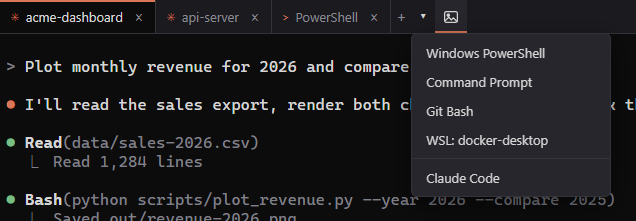
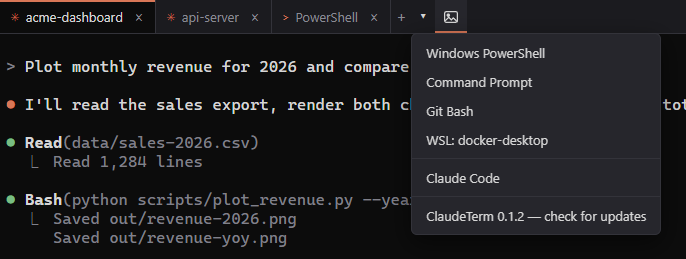
feat: English UI
Every UI string is English now, matching the README and the repository:
menus, banners, toasts, notices, status bar tooltips and image captions.
Numbers in tooltips use "," grouping, the restore banner date uses en-GB,
and subagent task descriptions are quoted with "…" instead of «…».
README screenshots regenerated.

Claude-Session: https://claude.ai/code/session_01H7pKcv8GdDHMwp5yt5Lqan

Changed region(s): [[0.0, 0.0, 1.0, 1.0], [0.6871, 0.1357, 0.7469, 0.1629], [0.0299, 0.9774, 0.0597, 1.0]]

diff --git a/src/renderer/status-bar.ts b/src/renderer/status-bar.ts
@@ -23,13 +23,13 @@ export function modelFamily(id: string): string {
   return /^claude-([a-z]+)-/.exec(id)?.[1] ?? id
 }
 
-const groupDigits = (n: number): string => String(Math.round(n)).replace(/\B(?=(\d{3})+(?!\d))/g, ' ')
+const groupDigits = (n: number): string => String(Math.round(n)).replace(/\B(?=(\d{3})+(?!\d))/g, ',')
 const pad2 = (n: number): string => String(n).padStart(2, '0')
 const agentKind = (a: AgentStatus): string => (a.model === null ? '…' : a.effort ? `${modelFamily(a.model)}·${a.effort}` : modelFamily(a.model))
 
 function minutes(ms: number): string {
   const m = Math.floor(ms / 60_000)
-  return m < 1 ? '<1 мин' : `${m} мин`
+  return m < 1 ? '<1 min' : `${m} min`
 }
 
 function agentGroups(agents: AgentStatus[]): string {
@@ -42,7 +42,7 @@ function agentGroups(agents: AgentStatus[]): string {
 }
 
 const agentLine = (a: AgentStatus, now: number): string =>
-  [a.type, agentKind(a), minutes(now - a.startedAt), ...(a.description ? [`«${a.description}»`] : [])].join(' · ')
+  [a.type, agentKind(a), minutes(now - a.startedAt), ...(a.description ? [`"${a.description}"`] : [])].join(' · ')
 
 export function statusSegments(u: StatusUpdate, now: number): Segment[] {
   const main = u.main
@@ -55,14 +55,14 @@ export function statusSegments(u: StatusUpdate, now: number): Segment[] {
     segments.push({
       key: 'context',
       text: `ctx ${Math.round(c.usedPct)}% · ${formatTokens(c.usedTokens)}/${formatTokens(c.size)}`,
-      title: `${groupDigits(c.usedTokens)} из ${groupDigits(c.size)} токенов`,
+      title: `${groupDigits(c.usedTokens)} of ${groupDigits(c.size)} tokens`,
       level: levelFor(c.usedPct)
     })
   }
   if (main.fiveHour) {
     const f = main.fiveHour
     const reset = new Date(f.resetsAt * 1000)
-    segments.push({ key: 'limit', text: `5h ${Math.round(f.usedPct)}%`, title: `сброс в ${pad2(reset.getHours())}:${pad2(reset.getMinutes())}`, level: levelFor(f.usedPct) })
+    segments.push({ key: 'limit', text: `5h ${Math.round(f.usedPct)}%`, title: `resets at ${pad2(reset.getHours())}:${pad2(reset.getMinutes())}`, level: levelFor(f.usedPct) })
   }
   if (u.agents.length > 0) {
     segments.push({ key: 'agents', text: `⚙ ${u.agents.length}: ${agentGroups(u.agents)}`, title: u.agents.map((a) => agentLine(a, now)).join('\n'), level: 'normal' })

diff --git a/tests/unit/updater.test.ts b/tests/unit/updater.test.ts
@@ -66,7 +66,7 @@ describe('Updater', () => {
     await u.check(true)
     b.result = '0.1.4'
     await u.check(true)
-    expect(out).toEqual(['toast:Установлена последняя версия (0.1.3)', 'toast:Загружается ClaudeTerm 0.1.4…'])
+    expect(out).toEqual(['toast:You have the latest version (0.1.3)', 'toast:Downloading ClaudeTerm 0.1.4…'])
   })
 
   it('background errors are only logged; manual errors are shown', async () => {
@@ -74,7 +74,7 @@ describe('Updater', () => {
     b.fail = 'net::ERR_INTERNET_DISCONNECTED'
     await u.check(false)
     await u.check(true)
-    expect(out).toEqual(['log:update check failed: net::ERR_INTERNET_DISCONNECTED', 'toast:Не удалось проверить обновления: net::ERR_INTERNET_DISCONNECTED'])
+    expect(out).toEqual(['log:update check failed: net::ERR_INTERNET_DISCONNECTED', 'toast:Couldn\'t check for updates: net::ERR_INTERNET_DISCONNECTED'])
   })
 
   it('a check while another is running is ignored', async () => {
@@ -95,7 +95,7 @@ describe('Updater', () => {
     expect(u.current).toEqual({ status: 'ready', version: '0.1.4' })
     await u.check(true)
     expect(b.checks).toBe(0)
-    expect(out).toEqual(['toast:ClaudeTerm 0.1.4 уже загружена — нажмите «Перезапустить»'])
+    expect(out).toEqual(['toast:ClaudeTerm 0.1.4 is downloaded — click Restart to install it'])
   })
 
   it('install saves the session before quitting into the installer, and only when ready', () => {
@@ -120,7 +120,7 @@ describe('Updater', () => {
     await u.check(false)
     await u.check(true)
     expect(timers).toEqual([])
-    expect(out).toEqual(['toast:Обновления работают только в установленной версии'])
+    expect(out).toEqual(['toast:Updates only work in the installed app'])
   })
 
   it('stop cancels the schedule', () => {

diff --git a/src/renderer/image-panel.ts b/src/renderer/image-panel.ts
@@ -10,7 +10,7 @@ export interface ImagePanelCallbacks {
   markSeen(tabId: string): void
 }
 
-const SOURCE_LABEL: Record<ImageSource, string> = { created: 'created', shown: 'show_image', read: 'read', tool: 'tool', pasted: 'вы' }
+const SOURCE_LABEL: Record<ImageSource, string> = { created: 'created', shown: 'show_image', read: 'read', tool: 'tool', pasted: 'you' }
 
 export class ImagePanel {
   private collapsed = true
@@ -113,13 +113,13 @@ export class ImagePanel {
     el.addEventListener('contextmenu', (e) => {
       e.preventDefault()
       showMenu({ x: e.clientX, y: e.clientY }, [
-        { label: 'Открыть в просмотрщике', action: () => this.cb.action(card.id, 'open') },
-        { label: 'Показать в Explorer', action: () => this.cb.action(card.id, 'reveal') },
-        { label: 'Копировать изображение', action: () => this.cb.action(card.id, 'copy-image') },
-        { label: 'Копировать путь', action: () => this.cb.action(card.id, 'copy-path') },
-        { label: 'Вставить путь в терминал', action: () => this.cb.insertPath(card.path) },
+        { label: 'Open in viewer', action: () => this.cb.action(card.id, 'open') },
+        { label: 'Show in Explorer', action: () => this.cb.action(card.id, 'reveal') },
+        { label: 'Copy image', action: () => this.cb.action(card.id, 'copy-image') },
+        { label: 'Copy path', action: () => this.cb.action(card.id, 'copy-path') },
+        { label: 'Insert path into terminal', action: () => this.cb.insertPath(card.path) },
         { label: '', separator: true },
-        { label: 'Убрать из ленты', action: () => this.cb.action(card.id, 'remove') }
+        { label: 'Remove from panel', action: () => this.cb.action(card.id, 'remove') }
       ])
     })
     return el

diff --git a/src/renderer/restore-banner.ts b/src/renderer/restore-banner.ts
@@ -1,16 +1,12 @@
 import type { RestoreInfo } from '../shared/ipc'
 
 export function plural(n: number): string {
-  const m10 = n % 10
-  const m100 = n % 100
-  if (m10 === 1 && m100 !== 11) return 'вкладка'
-  if (m10 >= 2 && m10 <= 4 && (m100 < 12 || m100 > 14)) return 'вкладки'
-  return 'вкладок'
+  return n === 1 ? 'tab' : 'tabs'
 }
 
 export function formatTime(iso: string): string {
   const d = new Date(iso)
-  return Number.isNaN(d.getTime()) ? iso : d.toLocaleString('ru-RU', { day: '2-digit', month: '2-digit', hour: '2-digit', minute: '2-digit' })
+  return Number.isNaN(d.getTime()) ? iso : d.toLocaleString('en-GB', { day: '2-digit', month: '2-digit', hour: '2-digit', minute: '2-digit' })
 }
 
 export class RestoreBanner {
@@ -25,15 +21,15 @@ export class RestoreBanner {
       return
     }
     const text = document.createElement('span')
-    text.textContent = `Предыдущая сессия: ${info.tabs} ${plural(info.tabs)} (${info.claudeTabs} Claude) · ${formatTime(info.savedAt)}`
+    text.textContent = `Previous session: ${info.tabs} ${plural(info.tabs)} (${info.claudeTabs} Claude) · ${formatTime(info.savedAt)}`
     const go = document.createElement('button')
     go.className = 'banner-restore'
-    go.textContent = 'Продолжить'
+    go.textContent = 'Restore'
     go.addEventListener('click', () => this.onRestore())
     const close = document.createElement('button')
     close.className = 'banner-close'
     close.textContent = '×'
-    close.title = 'Скрыть'
+    close.title = 'Hide'
     close.addEventListener('click', () => {
       this.dismissed = true
       this.update(null)

diff --git a/tests/e2e/update.spec.ts b/tests/e2e/update.spec.ts
@@ -40,7 +40,7 @@ test('a downloaded update shows a banner whose button asks to restart into it', 
   await app.evaluate(({ BrowserWindow }, s) => BrowserWindow.getAllWindows()[0].webContents.send('ev:update', s), ready('9.9.9'))
   const banner = page.locator('#update-banner')
   await expect(banner).toBeVisible()
-  await expect(banner).toContainText('Доступна новая версия ClaudeTerm 9.9.9.')
+  await expect(banner).toContainText('ClaudeTerm 9.9.9 is ready to install.')
   await banner.locator('.banner-restart').click()
   await expect.poll(() => app.evaluate(() => (globalThis as Record<string, unknown>).__installAsked === true)).toBe(true)
   await app.close()
@@ -65,9 +65,9 @@ test('the menu shows the version, and a check in a build that cannot update says
   const { app, page } = await launchApp()
   const version = await app.evaluate(({ app: a }) => a.getVersion())
   await page.locator('.tab-menu').click()
-  const item = page.locator('.menu-item', { hasText: `ClaudeTerm ${version} — проверить обновления` })
+  const item = page.locator('.menu-item', { hasText: `ClaudeTerm ${version} — check for updates` })
   await expect(item).toBeVisible()
   await item.click()
-  await expect(page.locator('.toast', { hasText: 'Обновления работают только в установленной версии' })).toBeVisible()
+  await expect(page.locator('.toast', { hasText: 'Updates only work in the installed app' })).toBeVisible()
   await app.close()
 })

diff --git a/src/main/updater.ts b/src/main/updater.ts
@@ -51,22 +51,22 @@ export class Updater {
   async check(manual: boolean): Promise<void> {
     const b = this.d.backend
     if (!b) {
-      if (manual) this.d.notify('Обновления работают только в установленной версии')
+      if (manual) this.d.notify('Updates only work in the installed app')
       return
     }
     if (this.state.status === 'ready') {
-      if (manual) this.d.notify(`ClaudeTerm ${this.state.version} уже загружена — нажмите «Перезапустить»`)
+      if (manual) this.d.notify(`ClaudeTerm ${this.state.version} is downloaded — click Restart to install it`)
       return
     }
     if (this.checking) return
     this.checking = true
     try {
       const version = await b.check()
-      if (manual) this.d.notify(version ? `Загружается ClaudeTerm ${version}…` : `Установлена последняя версия (${this.d.currentVersion})`)
+      if (manual) this.d.notify(version ? `Downloading ClaudeTerm ${version}…` : `You have the latest version (${this.d.currentVersion})`)
       else if (version) this.d.log(`update ${version} found, downloading`)
     } catch (e) {
       const m = (e as Error).message
-      if (manual) this.d.notify(`Не удалось проверить обновления: ${m}`)
+      if (manual) this.d.notify(`Couldn't check for updates: ${m}`)
       else this.d.log(`update check failed: ${m}`)
     } finally {
       this.checking = false

diff --git a/tests/unit/status-bar.test.ts b/tests/unit/status-bar.test.ts
@@ -15,9 +15,9 @@ describe('statusSegments', () => {
     const agents = [agent({ type: 'code-reviewer', description: 'Review font fix' })]
     expect(statusSegments({ tabId: 't', main, agents }, 3 * 60_000 + 5_000)).toEqual([
       { key: 'model', text: 'Opus 5.5 · xhigh', title: 'claude-opus-5-5', level: 'normal' },
-      { key: 'context', text: 'ctx 41% · 82k/200k', title: '82 314 из 200 000 токенов', level: 'normal' },
-      { key: 'limit', text: '5h 24%', title: 'сброс в 21:40', level: 'normal' },
-      { key: 'agents', text: '⚙ 1: opus·high', title: 'code-reviewer · opus·high · 3 мин · «Review font fix»', level: 'normal' }
+      { key: 'context', text: 'ctx 41% · 82k/200k', title: '82,314 of 200,000 tokens', level: 'normal' },
+      { key: 'limit', text: '5h 24%', title: 'resets at 21:40', level: 'normal' },
+      { key: 'agents', text: '⚙ 1: opus·high', title: 'code-reviewer · opus·high · 3 min · "Review font fix"', level: 'normal' }
     ])
   })
 
@@ -47,7 +47,7 @@ describe('statusSegments', () => {
   })
 
   it('agent tooltip: under a minute, no description', () => {
-    expect(statusSegments({ tabId: 't', main, agents: [agent({ startedAt: 1000 })] }, 30_000).at(-1)?.title).toBe('Explore · opus·high · <1 мин')
+    expect(statusSegments({ tabId: 't', main, agents: [agent({ startedAt: 1000 })] }, 30_000).at(-1)?.title).toBe('Explore · opus·high · <1 min')
   })
 })
 

diff --git a/tests/unit/transcript-images.test.ts b/tests/unit/transcript-images.test.ts
@@ -23,15 +23,15 @@ describe('TranscriptParser', () => {
 
   it('image pasted by the user → kind pasted', () => {
     const out = new TranscriptParser({ subagent: false }).parseLine(pastedLine())
-    expect(out).toEqual([{ kind: 'pasted', filePath: null, data: PNG_B64, mediaType: 'image/png', caption: 'вставлено вами', timestamp: Date.parse('2026-10-05T10:00:02.000Z') }])
+    expect(out).toEqual([{ kind: 'pasted', filePath: null, data: PNG_B64, mediaType: 'image/png', caption: 'pasted by you', timestamp: Date.parse('2026-10-05T10:00:02.000Z') }])
   })
 
   it('subagent transcripts get a prefix', () => {
     const p = new TranscriptParser({ subagent: true })
     p.parseLine(toolUseLine('toolu_r1', 'Read', { file_path: SHOT }))
     p.parseLine(toolUseLine('toolu_s1', 'mcp__claude-in-chrome__computer', { action: 'screenshot' }))
-    expect(p.parseLine(toolResultLine('toolu_r1'))[0].caption).toBe('субагент · Read')
-    expect(p.parseLine(toolResultLine('toolu_s1'))[0].caption).toBe('субагент · claude-in-chrome · computer (screenshot)')
+    expect(p.parseLine(toolResultLine('toolu_r1'))[0].caption).toBe('subagent · Read')
+    expect(p.parseLine(toolResultLine('toolu_s1'))[0].caption).toBe('subagent · claude-in-chrome · computer (screenshot)')
   })
 
   it('tool_result without a known tool_use → kind tool without caption', () => {

diff --git a/src/main/transcript-images.ts b/src/main/transcript-images.ts
@@ -83,14 +83,14 @@ export class TranscriptParser {
   private describe(toolUseId: string | null, data: string, mediaType: string, timestamp: number | null): ExtractedImage {
     const sub = this.opts.subagent
     if (toolUseId === null) {
-      return { kind: 'pasted', filePath: null, data, mediaType, caption: sub ? 'субагент · входная картинка' : 'вставлено вами', timestamp }
+      return { kind: 'pasted', filePath: null, data, mediaType, caption: sub ? 'subagent · input image' : 'pasted by you', timestamp }
     }
     const tool = this.tools.get(toolUseId)
     if (tool?.name === 'Read' && typeof tool.input.file_path === 'string') {
-      return { kind: 'read', filePath: tool.input.file_path, data, mediaType, caption: sub ? 'субагент · Read' : null, timestamp }
+      return { kind: 'read', filePath: tool.input.file_path, data, mediaType, caption: sub ? 'subagent · Read' : null, timestamp }
     }
     const label = tool ? toolLabel(tool.name, tool.input) : null
-    const caption = label ? (sub ? `субагент · ${label}` : label) : sub ? 'субагент' : null
+    const caption = label ? (sub ? `subagent · ${label}` : label) : sub ? 'subagent' : null
     return { kind: 'tool', filePath: null, data, mediaType, caption, timestamp }
   }
 }

diff --git a/src/renderer/main.ts b/src/renderer/main.ts
@@ -214,9 +214,9 @@ function newTabMenu(anchor: HTMLElement): void {
       ...names.map((name) => ({ label: name, action: () => void ct.openTab({ kind: 'shell', cwd: appInfo.homeDir, profile: name }) })),
       { label: '', separator: true },
       { label: 'Claude Code', action: () => void ct.openTab({ kind: 'claude', cwd: active?.info.cwd ?? appInfo.homeDir }) },
-      ...(restoreInfo ? [{ label: `Продолжить предыдущие сессии (${restoreInfo.tabs})`, action: () => ct.runRestore() }] : []),
+      ...(restoreInfo ? [{ label: `Restore previous session (${restoreInfo.tabs})`, action: () => ct.runRestore() }] : []),
       { label: '', separator: true },
-      { label: `ClaudeTerm ${appInfo.version} — проверить обновления`, action: () => ct.checkForUpdates() }
+      { label: `ClaudeTerm ${appInfo.version} — check for updates`, action: () => ct.checkForUpdates() }
     ]
     const r = anchor.getBoundingClientRect()
     showMenu({ x: r.left, y: r.bottom }, items)

diff --git a/tests/integration/transcript-feed.int.test.ts b/tests/integration/transcript-feed.int.test.ts
@@ -126,7 +126,7 @@ describe('TranscriptFeed', () => {
     await feed.poll()
     expect(images).toHaveLength(2)
     expect(images[0].path).toBe(images[1].path)
-    expect(images[0]).toMatchObject({ source: 'pasted', caption: 'вставлено вами' })
+    expect(images[0]).toMatchObject({ source: 'pasted', caption: 'pasted by you' })
     expect(readdirSync(join(cacheRoot, SID))).toHaveLength(1)
   })
 
@@ -138,7 +138,7 @@ describe('TranscriptFeed', () => {
     writeFileSync(join(feed.subagentDir, 'agent-a1.meta.json'), '{}')
     feed.scanSubagents()
     await feed.poll()
-    expect(images.map((i) => i.caption)).toEqual(['субагент · claude-in-chrome · computer (screenshot)'])
+    expect(images.map((i) => i.caption)).toEqual(['subagent · claude-in-chrome · computer (screenshot)'])
   })
 
   it('reports model and effort of a subagent once per change, ignoring synthetic lines and the main transcript', async () => {

diff --git a/tests/e2e/status.spec.ts b/tests/e2e/status.spec.ts
@@ -39,7 +39,7 @@ test('a claude tab shows model, context, the 5h limit and running subagents', as
   await expect(bar.locator('.status-context')).toHaveText('ctx 41% · 82k/200k')
   await expect(bar.locator('.status-limit')).toHaveText('5h 24%')
   await expect(bar.locator('.status-agents')).toHaveText('⚙ 1: opus·high', { timeout: 10_000 })
-  await expect(bar.locator('.status-agents')).toHaveAttribute('title', 'Explore · opus·high · <1 мин · «Find asar users»')
+  await expect(bar.locator('.status-agents')).toHaveAttribute('title', 'Explore · opus·high · <1 min · "Find asar users"')
 
   expect(await sendPipeMessage(pipeName, { v: 1, type: 'subagent', tabId, sessionId: SID, event: 'stop', agentId: 'a1', agentType: 'Explore' })).toEqual({ ok: true })
   await expect(bar.locator('.status-agents')).toHaveCount(0)
